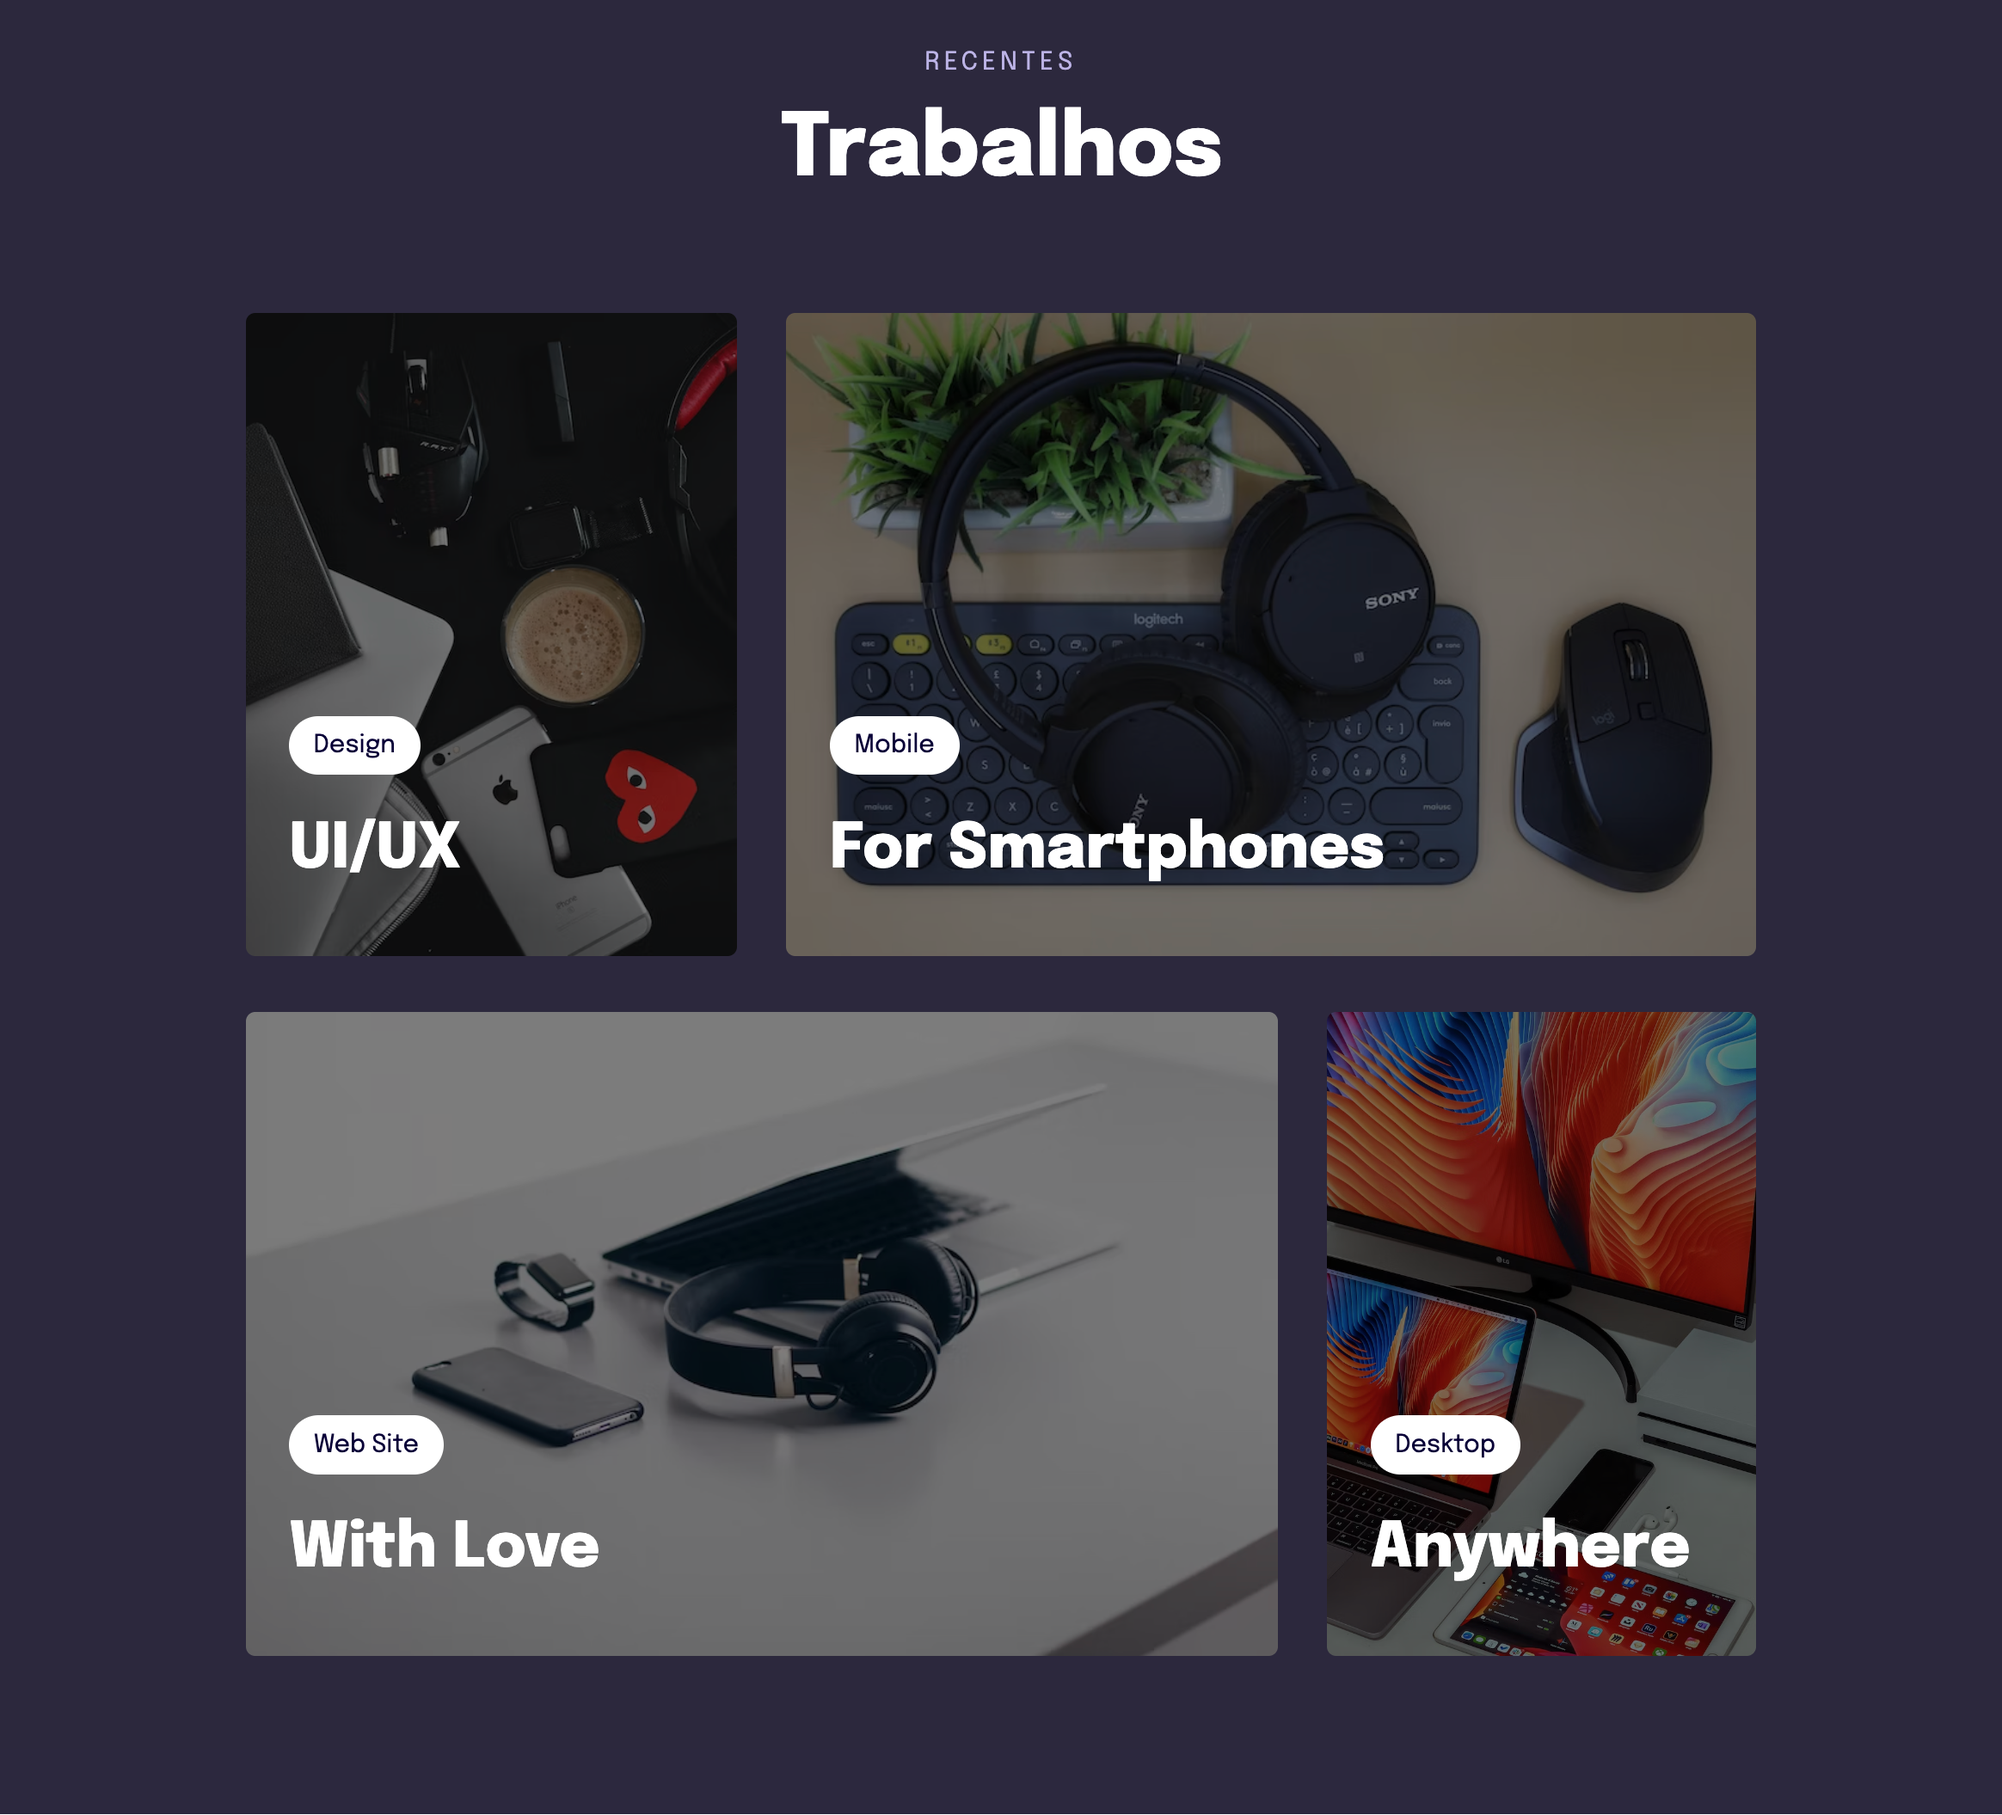
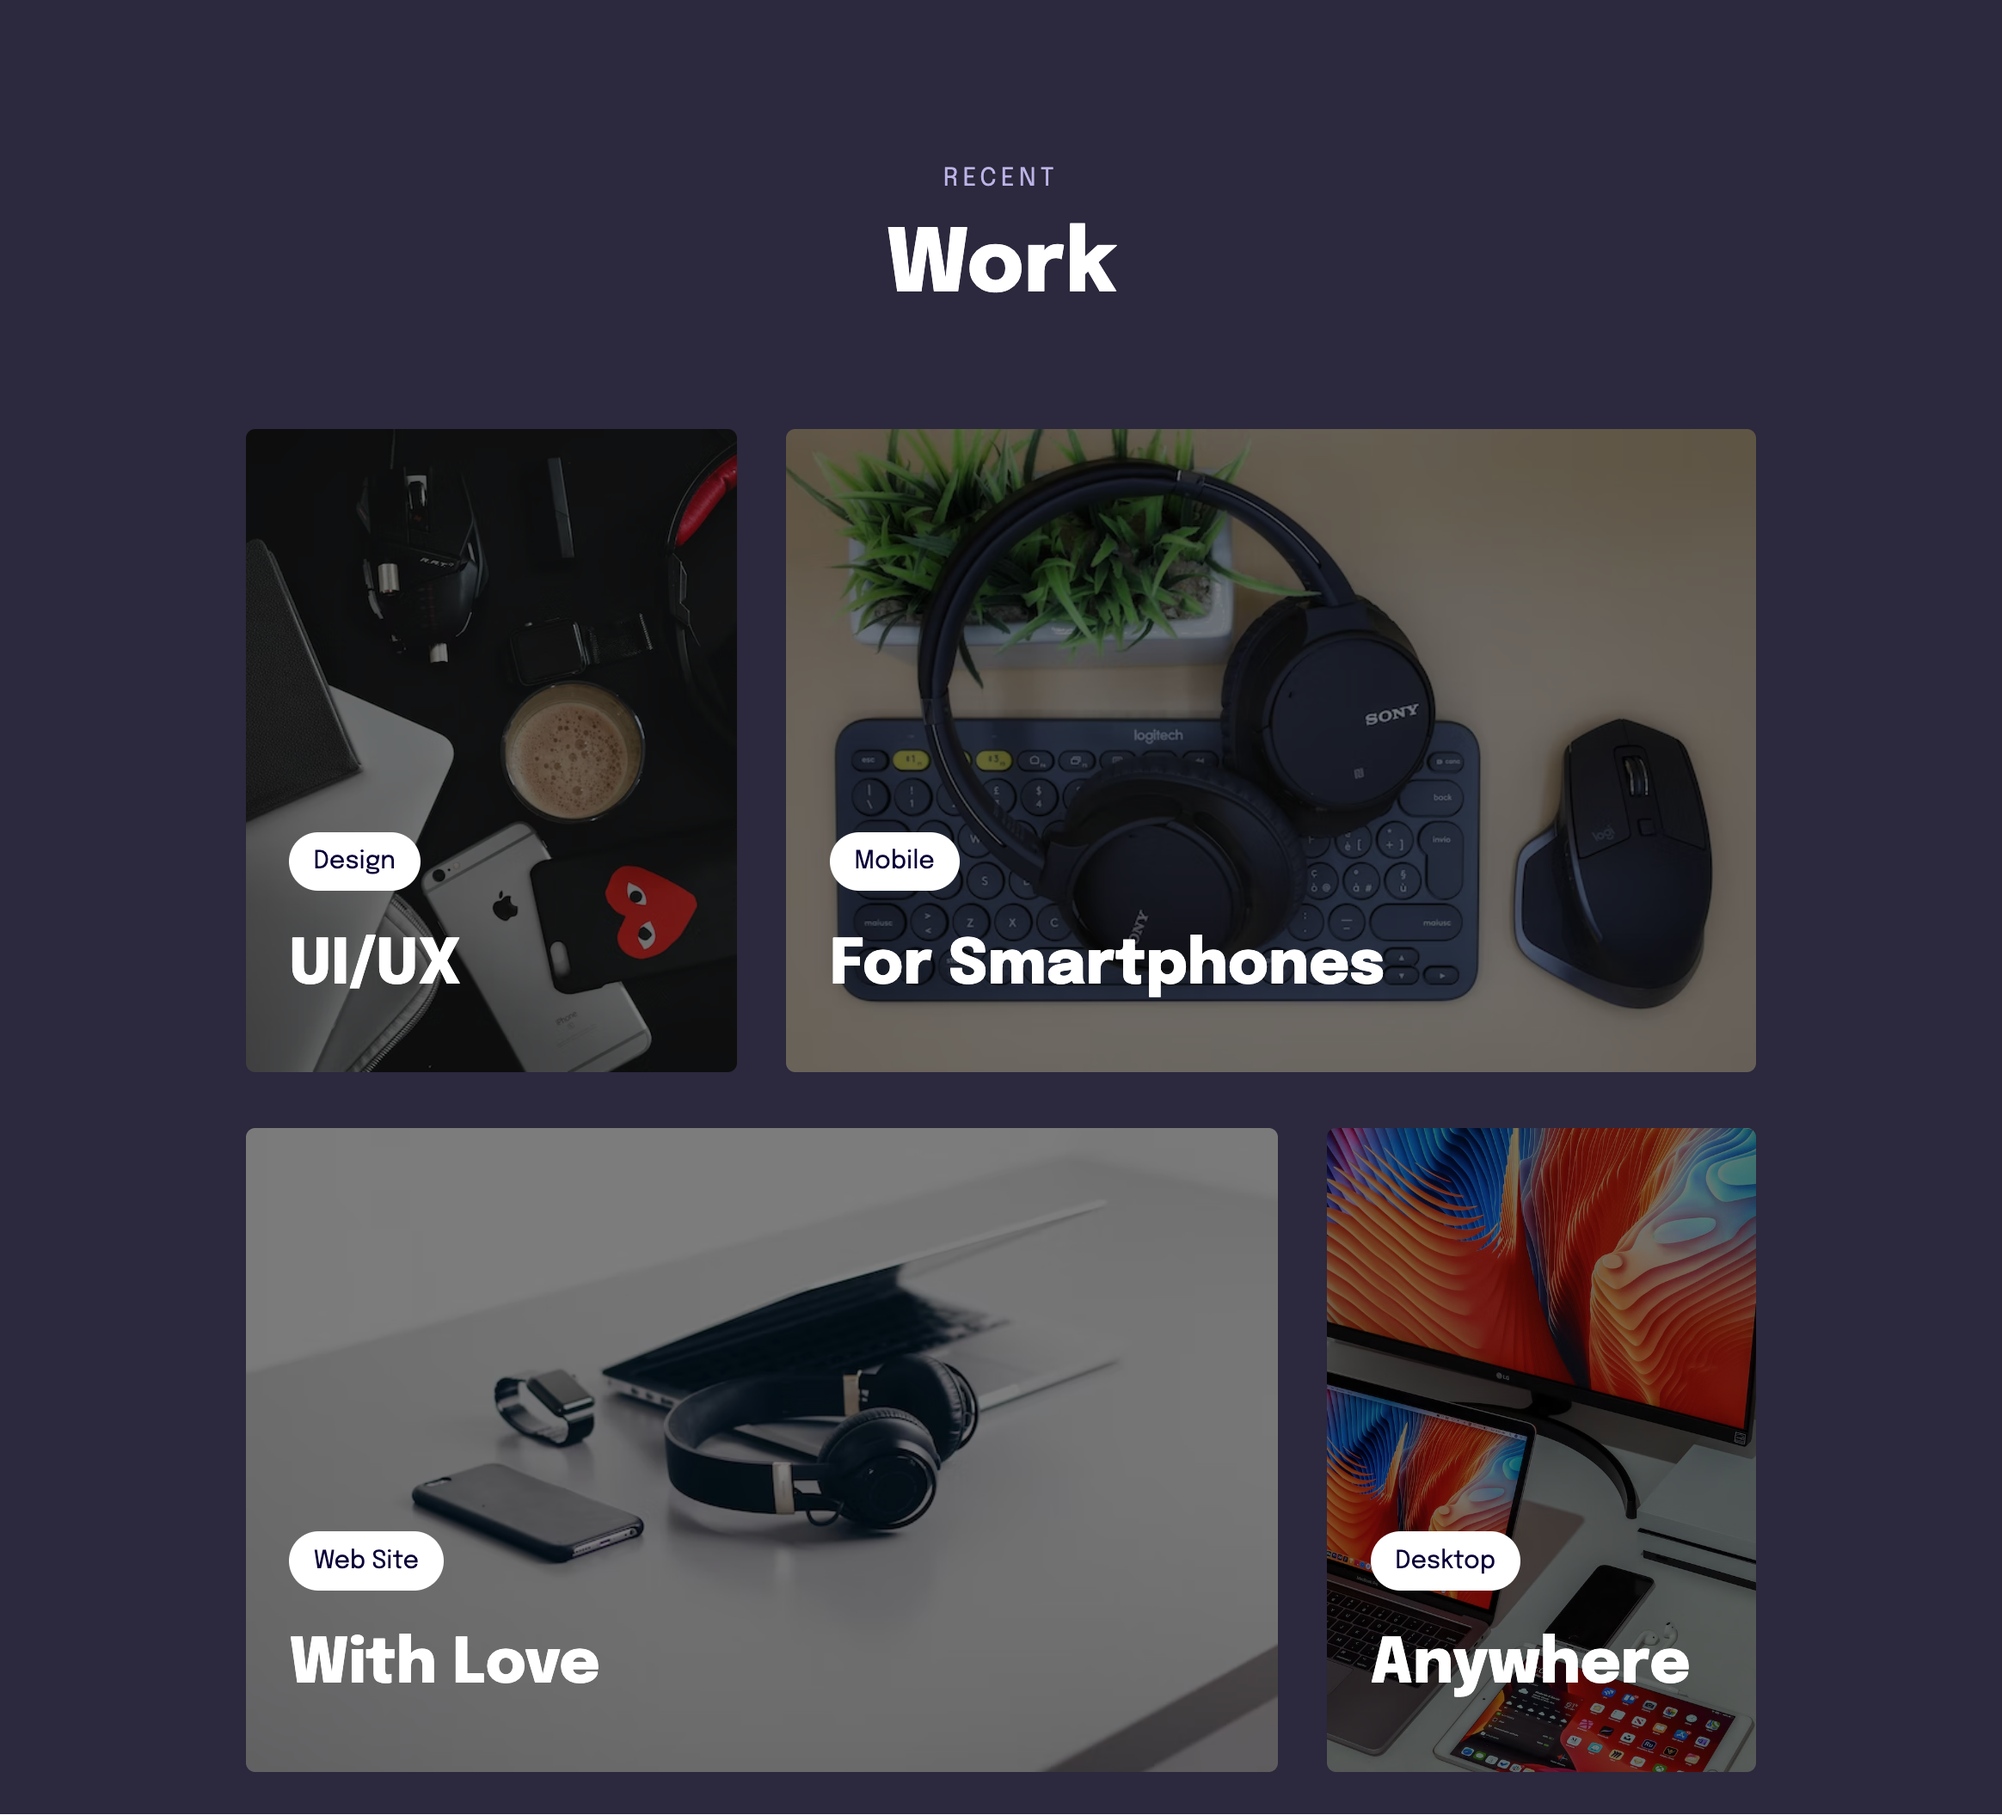
README.md

diff --git a/explorer/stage-03/advanced-css/portfolio-cards/index.html b/explorer/stage-03/advanced-css/portfolio-cards/index.html
@@ -15,8 +15,8 @@
 <body>
   <div class="page">
     <header>
-      <p>Recentes</p>
-      <h1>Trabalhos</h1>
+      <p>Recent</p>
+      <h1>Work</h1>
     </header>
   
     <main>
